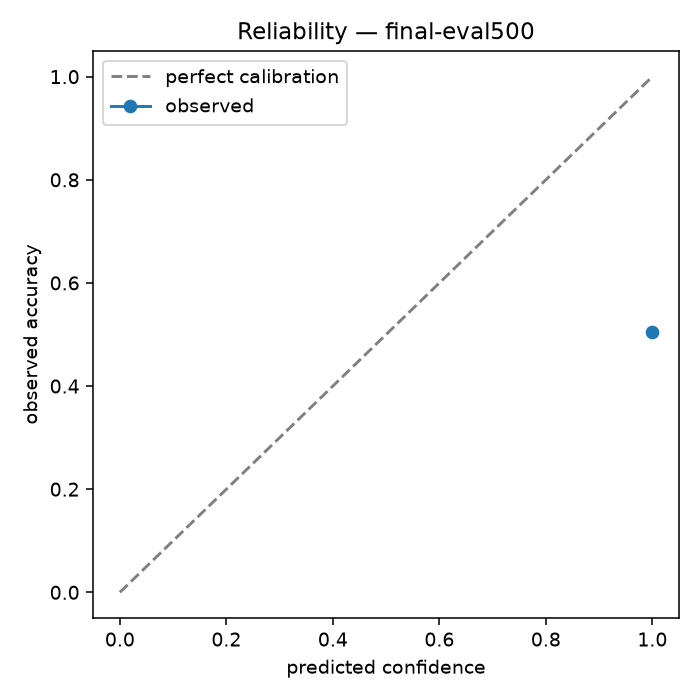
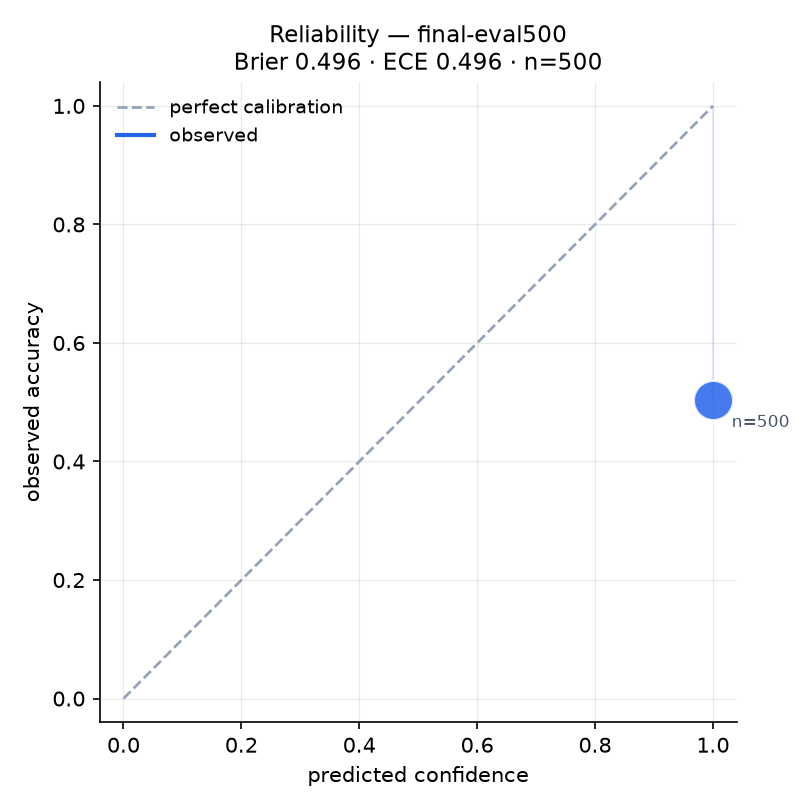
feat(analysis): figures that carry their own evidence
Reliability diagram now shows Brier and ECE in the title, encodes bin
population in marker area with n labels so sparse bins are not mistaken for
well-evidenced ones, and shades the gap to the diagonal so the direction of
miscalibration is readable without reading the axes.

Routing curve marks the chosen operating point with its numbers inline and
shades the region above random routing.

diff --git a/scripts/analyze.py b/scripts/analyze.py
@@ -275,36 +275,116 @@ def _plots(label, conf, correct, curve) -> None:
     except ImportError:
         return
 
-    from sqlsentinel.confidence import reliability_curve
+    from sqlsentinel.confidence import brier_score, expected_calibration_error, reliability_curve
 
+    accent, muted = "#2563eb", "#94a3b8"
+
+    # ---- reliability diagram
     rc = reliability_curve(conf, correct)
-    fig, ax = plt.subplots(figsize=(5, 5))
-    ax.plot([0, 1], [0, 1], "--", color="grey", label="perfect calibration")
+    fig, ax = plt.subplots(figsize=(5.4, 5.4))
+    ax.plot([0, 1], [0, 1], "--", color=muted, lw=1.3, label="perfect calibration", zorder=1)
+
     if rc:
-        ax.plot(
-            [b["mean_predicted"] for b in rc],
-            [b["observed_accuracy"] for b in rc],
-            "o-",
-            label="observed",
+        xs = [b["mean_predicted"] for b in rc]
+        ys = [b["observed_accuracy"] for b in rc]
+        # shading between the curve and the diagonal makes the *direction* of
+        # miscalibration readable at a glance: below means overconfident
+        ax.fill_between(xs, ys, xs, color=accent, alpha=0.12, zorder=2)
+        # marker area encodes bin population, so sparse bins cannot be mistaken
+        # for equally well-evidenced ones
+        counts = [b["count"] for b in rc]
+        scale = max(counts) or 1
+        ax.scatter(
+            xs,
+            ys,
+            s=[40 + 320 * c / scale for c in counts],
+            color=accent,
+            alpha=0.85,
+            zorder=4,
+            edgecolors="white",
+            linewidths=1.2,
         )
+        ax.plot(xs, ys, "-", color=accent, lw=2, zorder=3, label="observed")
+        for x, y, c in zip(xs, ys, counts, strict=True):
+            ax.annotate(
+                f"n={c}",
+                (x, y),
+                textcoords="offset points",
+                xytext=(9, -13),
+                fontsize=8,
+                color="#475569",
+            )
+
+    ax.set_xlim(-0.04, 1.04)
+    ax.set_ylim(-0.04, 1.04)
     ax.set_xlabel("predicted confidence")
     ax.set_ylabel("observed accuracy")
-    ax.set_title(f"Reliability — {label}")
-    ax.legend()
+    ax.set_title(
+        f"Reliability — {label}\n"
+        f"Brier {brier_score(conf, correct):.3f} · "
+        f"ECE {expected_calibration_error(conf, correct):.3f} · n={len(correct)}",
+        fontsize=11,
+    )
+    ax.grid(alpha=0.25, lw=0.6)
+    ax.set_axisbelow(True)
+    ax.legend(frameon=False, fontsize=9, loc="upper left")
+    for s in ("top", "right"):
+        ax.spines[s].set_visible(False)
     fig.tight_layout()
-    fig.savefig(RESULTS / f"calibration-{label}.png", dpi=140)
+    fig.savefig(RESULTS / f"calibration-{label}.png", dpi=150)
     plt.close(fig)
 
-    fig, ax = plt.subplots(figsize=(6, 4.5))
-    ax.plot([r["pct_routed"] for r in curve], [r["pct_errors_caught"] for r in curve], "o-")
-    ax.plot([0, 100], [0, 100], "--", color="grey", label="random routing")
-    ax.set_xlabel("% of queries routed to review")
+    # ---- routing curve
+    fig, ax = plt.subplots(figsize=(6.4, 4.8))
+    xs = [r["pct_routed"] for r in curve]
+    ys = [r["pct_errors_caught"] for r in curve]
+
+    # anything above the diagonal beats routing at random
+    ax.fill_between(
+        xs,
+        ys,
+        xs,
+        where=[y >= x for x, y in zip(xs, ys, strict=True)],
+        color=accent,
+        alpha=0.12,
+        label="better than random",
+    )
+    ax.plot([0, 100], [0, 100], "--", color=muted, lw=1.3, label="random routing")
+    ax.plot(xs, ys, "o-", color=accent, lw=2, ms=5)
+
+    pt = best_operating_point(curve, max_pct_routed=25.0)
+    if pt:
+        ax.scatter(
+            [pt["pct_routed"]],
+            [pt["pct_errors_caught"]],
+            s=180,
+            facecolor="none",
+            edgecolor="#dc2626",
+            lw=2,
+            zorder=5,
+        )
+        ax.annotate(
+            f"routed {pt['pct_routed']:.0f}% → caught {pt['pct_errors_caught']:.0f}%\n"
+            f"auto-executed accuracy {pt['auto_accuracy']:.0f}%",
+            (pt["pct_routed"], pt["pct_errors_caught"]),
+            textcoords="offset points",
+            xytext=(14, -32),
+            fontsize=9,
+            color="#dc2626",
+        )
+
+    ax.set_xlim(-2, 102)
+    ax.set_ylim(-2, 102)
+    ax.set_xlabel("% of queries routed to human review")
     ax.set_ylabel("% of incorrect queries caught")
-    ax.set_title(f"Routing — {label}")
-    ax.legend()
-    ax.grid(alpha=0.3)
+    ax.set_title(f"Routing — {label}", fontsize=11)
+    ax.grid(alpha=0.25, lw=0.6)
+    ax.set_axisbelow(True)
+    ax.legend(frameon=False, fontsize=9, loc="lower right")
+    for s in ("top", "right"):
+        ax.spines[s].set_visible(False)
     fig.tight_layout()
-    fig.savefig(RESULTS / f"routing-{label}.png", dpi=140)
+    fig.savefig(RESULTS / f"routing-{label}.png", dpi=150)
     plt.close(fig)
 
 
